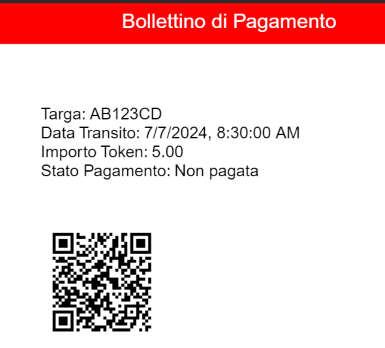
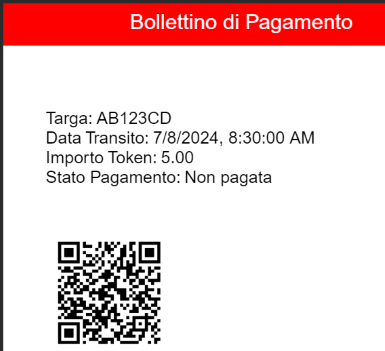
readme finale

Changed region(s): [[0.0935, 0.2874, 0.8416, 0.546], [0.1247, 0.6609, 0.4364, 1.0], [0.0, 0.0, 1.0, 1.0]]

diff --git a/README.md b/README.md
@@ -127,7 +127,6 @@ graph TD
     Operatore ---|Gestione| GestioneTransiti([fa:fa-folder-open Gestione_Transiti])
 
     GestioneTransiti ----|Include| InserimentoTransiti([fa:fa-folder-open Inserimento_Transiti])
-    GestioneTransiti ----|Include| EliminazioneTransiti([fa:fa-folder-open Eliminazione_Transiti])
     GestioneTransiti ----|Include| CreazioneAutomaticaMulta([fa:fa-folder-open Creazione_Automatica_Multa])
 
     VerificaMulte ----|Controlla| CreazioneAutomaticaMulta
@@ -249,6 +248,8 @@ Per astrarre la logica di accesso ai dati, indipendentemente dal tipo di meccani
 Il DAO presenta diverse componenti: l'*interfaccia* di definizione dei metodi di accesso ai dati che devono essere implementati, l'*implementazione* concreta dei metodi definiti dall'interfaccia DAO che contiene il codice specifico di interazione con le fonti di dati e le *classi di entità*, cioè i Model, che rappresentano i dati che vengono manipolati dal DAO. Queste ultime classi sono mappate alle tabelle del database.
 
 L'utilità principale del pattern è rappresentata dal fatto che ad un singolo Model viene corrisposto un singolo DAO, garantendo l'accesso ai dati necessari, e, soprattutto, uno o più DAO possono essere richiamati da componenti superiori quali **Repository** (se previsto) o **Controller**, per l'utilizzo combinato dell'accesso ai dati. In questo modo, non solo è garantita un'elevata riutilizzabilità del codice in diverse parti dell'applicazione, ma soprattutto viene implementata una forte modularità e separazione delle responsabilità da parte di tutte le componenti.
+
+> All'interno del progetto, i DAO sono stati implementati per tutte le CRUD di tutte le classi di entità, indipendentemente dal fatto che servissero o meno ai fini dello scopo. 
 
 **Repository**
 
@@ -972,7 +973,7 @@ All'interno del sistema sono state predisposte le rotte mostrate in tabella; ogn
 | `POST`  | /pagamulta | ✔ | Automobilista |
 | `POST`  | /ricaricatoken/:id | ✔ | Admin |
 
-> **Nota**: Sono state implementate delle rotte aggiuntive all'interno del sistema, per permettere di visualizzare, aggiungere, aggiornare o cancellare informazioni ulteriori direttamente su Postman. Le CRUD aggiuntive riguardano le classi `veicolo`, `tipoVeicolo`, `orarioChiusura`, `utente`. Le suddette rotte sono state implementate solamente per scopi di completezza e di possibilità di personalizzazione in fase di test. 
+> **Nota**: Sono state implementate delle rotte aggiuntive all'interno del sistema, per permettere di visualizzare, aggiungere, aggiornare o cancellare informazioni ulteriori direttamente su Postman. Le CRUD aggiuntive riguardano le classi `veicolo`, `tipoVeicolo`, `orarioChiusura`, `utente`. Le suddette rotte sono state implementate solamente per scopi di completezza e di possibilità di personalizzazione in fase di test. Nel caso in cui vogliano essere provate, il modus operandi è identico alle rotte mostrate nella tabella, ovvero inserendo GET/POST/PUT/DELETE e aggiungendo la classe di entità che si vuole provare.
 
 ### Login
 
@@ -1890,9 +1891,9 @@ Authorization: Bearer {authToken}
             "id_transito": 1,
             "veicolo": "AB123CD",
             "varco": 1,
-            "data_ora": "2024-07-07T08:30:00.000Z"
+            "data_ora": "2024-07-08T08:30:00.000Z"
         },
-        "data_multa": "2024-07-07T10:00:00.000Z",
+        "data_multa": "2024-07-08T10:00:00.000Z",
         "pagata": false,
         "importo_token": "5.00",
         "uuid_pagamento": "550e8400-e29b-41d4-a716-446655440000"
@@ -2030,6 +2031,29 @@ Authorization: Bearer {authToken}
 
 ## ⚙ Set-up
 
+Per utilizzare l'applicazione, è necessario seguire i seguenti passaggi:
+
+1. Il primo requisito fondamentale è l'installazione di [Docker](https://www.docker.com/) e [docker-compose](https://docs.docker.com/compose/).
+
+2. Successivamente, bisogna eseguire la *clone* della repository. Per far ciò, si può eseguire il seguente comando sul proprio terminale:
+
+```bash
+git clone https://github.com/Arianna6400/Adv_Prog
+cd Adv_Prog
+```
+
+3. Per utilizzare il sistema, è fondamentale importare il file `.env` all'interno della directory principale.
+
+4. A questo punto, attraverso la propria CLI, è possibile avviare l'applicazione digitando il seguente comando:
+
+```bash
+docker-compose up --build
+```
+
+Il sistema sarà in ascolto all'indirizzo `http://127.0.0.1:3000`. 
+
+5. Le rotte API mostrate nella sezione [API Routes](#-api-routes) possono essere testate tramite [Postman](https://www.postman.com/), utilizzando la collection `PA_2024_collection.postman_collection.json` e l'environment `PA_2024_environment.postman_environment.json`, reperibili nella directory `postman`.
+
 ## 📘 Scelte implementative da sottolineare
 
 Ai fini della realizzazione del presente progetto sono state effettuate alcune scelte implementative, volte ad agevolare il suo sviluppo a livello didattico. 
@@ -2038,7 +2062,7 @@ Un veicolo potrebbe entrare in una ZTL durante un periodo di apertura, per poi u
 
 Un’ulteriore scelta riguarda la gestione del pagamento delle multe. Sebbene ogni utente di tipo `automobilista` possa visualizzare solo ed esclusivamente le multe dei veicoli a esso intestati, può effettuare il pagamento di qualsiasi multa, purché sia in possesso dell’UUID della stessa.
 
-Come già sottolineato nel capitolo relativo all’Architettura dei servizi, l’intero sistema è stato implementato all’insegna della modularità, resa possibile dallo sviluppo di due backend completamente indipendenti. Per permettere l’integrazione e la comunicazione tra questi due servizi, è stato utilizzato **Axios**, una libreria basata su Promises per JavaScript, utilizzata principalmente per eseguire richieste HTTP asincrone verso un endpoint. È particolarmente utile per le applicazioni web e mobile per la sua semplicità e capacità di gestire le richieste in modo efficiente.
+Come già sottolineato nel capitolo relativo all’[Architettura dei servizi](#-architettura-dei-servizi), l’intero sistema è stato implementato all’insegna della modularità, resa possibile dallo sviluppo di due backend completamente indipendenti. Per permettere l’integrazione e la comunicazione tra questi due servizi, è stato utilizzato **Axios**, una libreria basata su Promises per JavaScript, utilizzata principalmente per eseguire richieste HTTP asincrone verso un endpoint. È particolarmente utile per le applicazioni web e mobile per la sua semplicità e capacità di gestire le richieste in modo efficiente.
 
 Nel contesto di questo progetto, Axios è stato utilizzato per effettuare chiamate HTTP tra i due backend, garantendo una comunicazione fluida e modulare. Ad esempio, quando un utente tenta di pagare una multa, il backend responsabile della gestione delle transazioni invia una richiesta HTTP al backend che gestisce le informazioni sulle multe, utilizzando Axios. Questo approccio permette di mantenere i servizi indipendenti e modulari, facilitando la manutenzione e l’espansione del sistema.
 
